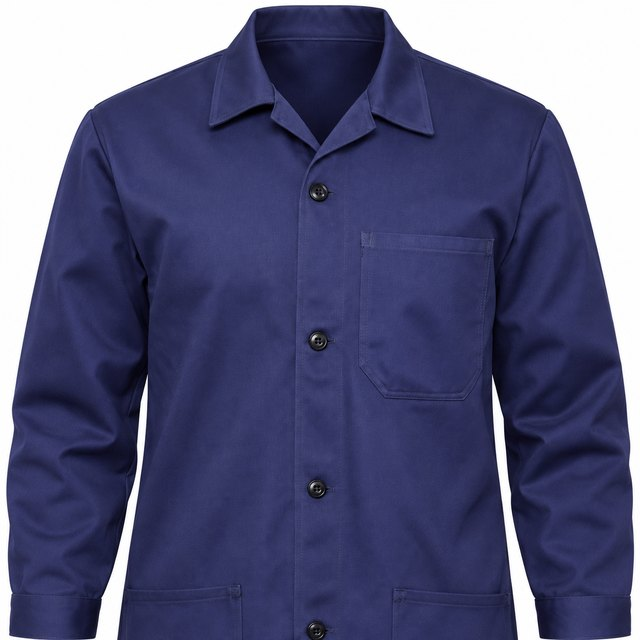
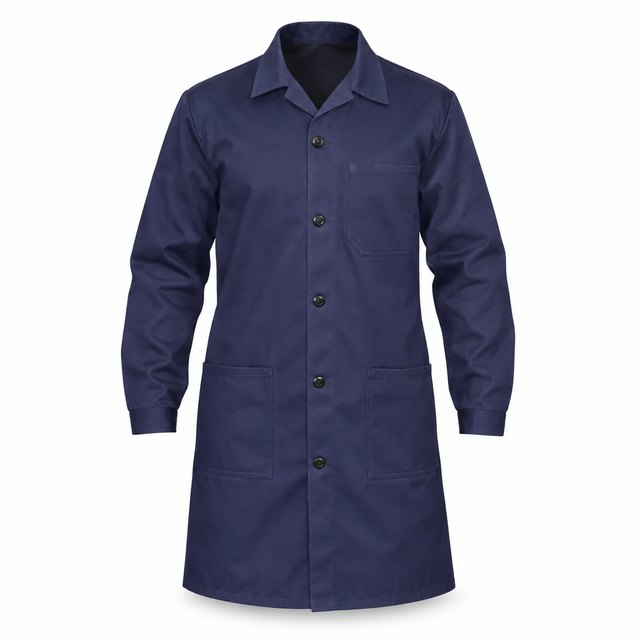
Doplněny 4 fotky z dodělávek

diff --git a/katalog.html b/katalog.html
@@ -381,7 +381,7 @@
       <span class="produkt-rada">Klasik</span>
     </div>
     <p class="produkt-mono"><span class="zastupne" title="zástupný údaj — doplní M+P Král">100 % BA</span> · <span class="zastupne" title="zástupný údaj — doplní M+P Král">280 g/m²</span></p>
-    <ul class="vzorniky"><li><button type="button" class="vzornik aktivni" style="background-image:url(img/vzorniky/klasik-souprava-zelena-predni.jpg)" title="zelená" aria-label="zelená" data-varianta="{&quot;rada&quot;: &quot;Monterková souprava Klasik&quot;, &quot;varianta&quot;: &quot;zelená&quot;, &quot;fotky&quot;: {&quot;přední&quot;: &quot;img/produkty/klasik-souprava-zelena-predni.jpg&quot;, &quot;zadní&quot;: &quot;img/produkty/klasik-souprava-zelena-zadni.jpg&quot;}, &quot;strih&quot;: &quot;220/K&quot;}"></button></li></ul>
+    <ul class="vzorniky"><li><button type="button" class="vzornik aktivni" style="background-image:url(img/vzorniky/klasik-souprava-zelena-predni.jpg)" title="zelená" aria-label="zelená" data-varianta="{&quot;rada&quot;: &quot;Monterková souprava Klasik&quot;, &quot;varianta&quot;: &quot;zelená&quot;, &quot;fotky&quot;: {&quot;detail&quot;: &quot;img/produkty/klasik-souprava-zelena-detail.jpg&quot;, &quot;přední&quot;: &quot;img/produkty/klasik-souprava-zelena-predni.jpg&quot;, &quot;zadní&quot;: &quot;img/produkty/klasik-souprava-zelena-zadni.jpg&quot;}, &quot;strih&quot;: &quot;220/K&quot;}"></button></li></ul>
     <p class="produkt-rozsah" data-rozsah>1 barva · vel. <span class="zastupne" title="zástupný údaj — doplní M+P Král">46–66</span></p>
     <button type="button" class="tl tl-obrys tl-plna" data-otevrit-rozpis>Zapsat počty</button>
     <div class="rozpis-v-karte" data-rozpis><div class="vel-mrizka"><label class="vel-bunka"><span>46</span><input type="number" min="0" placeholder="0" aria-label="Velikost 46" data-ks="46"></label><label class="vel-bunka"><span>48</span><input type="number" min="0" placeholder="0" aria-label="Velikost 48" data-ks="48"></label><label class="vel-bunka"><span>50</span><input type="number" min="0" placeholder="0" aria-label="Velikost 50" data-ks="50"></label><label class="vel-bunka"><span>52</span><input type="number" min="0" placeholder="0" aria-label="Velikost 52" data-ks="52"></label><label class="vel-bunka"><span>54</span><input type="number" min="0" placeholder="0" aria-label="Velikost 54" data-ks="54"></label><label class="vel-bunka"><span>56</span><input type="number" min="0" placeholder="0" aria-label="Velikost 56" data-ks="56"></label><label class="vel-bunka"><span>58</span><input type="number" min="0" placeholder="0" aria-label="Velikost 58" data-ks="58"></label><label class="vel-bunka"><span>60</span><input type="number" min="0" placeholder="0" aria-label="Velikost 60" data-ks="60"></label><label class="vel-bunka"><span>62</span><input type="number" min="0" placeholder="0" aria-label="Velikost 62" data-ks="62"></label><label class="vel-bunka"><span>64</span><input type="number" min="0" placeholder="0" aria-label="Velikost 64" data-ks="64"></label><label class="vel-bunka"><span>66</span><input type="number" min="0" placeholder="0" aria-label="Velikost 66" data-ks="66"></label></div>
@@ -403,7 +403,7 @@
       <span class="produkt-rada">Ostatní</span>
     </div>
     <p class="produkt-mono"><span class="zastupne" title="zástupný údaj — doplní M+P Král">65 % PES / 35 % BA</span> · <span class="zastupne" title="zástupný údaj — doplní M+P Král">260 g/m²</span></p>
-    <ul class="vzorniky"><li><button type="button" class="vzornik aktivni" style="background-image:url(img/vzorniky/plast-kralovsky-modry-predni.jpg)" title="královská modrá" aria-label="královská modrá" data-varianta="{&quot;rada&quot;: &quot;Pracovní plášť&quot;, &quot;varianta&quot;: &quot;královská modrá&quot;, &quot;fotky&quot;: {&quot;detail&quot;: &quot;img/produkty/plast-kralovsky-modry-detail.jpg&quot;, &quot;přední&quot;: &quot;img/produkty/plast-kralovsky-modry-predni.jpg&quot;, &quot;zadní&quot;: &quot;img/produkty/plast-kralovsky-modry-zadni.jpg&quot;}, &quot;strih&quot;: &quot;223/O&quot;}"></button></li><li><button type="button" class="vzornik " style="background-image:url(img/vzorniky/plast-tmave-modry-zadni.jpg)" title="tmavě modrá (navy)" aria-label="tmavě modrá (navy)" data-varianta="{&quot;rada&quot;: &quot;Pracovní plášť&quot;, &quot;varianta&quot;: &quot;tmavě modrá (navy)&quot;, &quot;fotky&quot;: {&quot;zadní&quot;: &quot;img/produkty/plast-tmave-modry-zadni.jpg&quot;}, &quot;strih&quot;: &quot;226/O&quot;}"></button></li><li><button type="button" class="vzornik " style="background-image:url(img/vzorniky/plast-zeleny-predni.jpg)" title="zelená" aria-label="zelená" data-varianta="{&quot;rada&quot;: &quot;Pracovní plášť&quot;, &quot;varianta&quot;: &quot;zelená&quot;, &quot;fotky&quot;: {&quot;detail&quot;: &quot;img/produkty/plast-zeleny-detail.jpg&quot;, &quot;přední&quot;: &quot;img/produkty/plast-zeleny-predni.jpg&quot;, &quot;zadní&quot;: &quot;img/produkty/plast-zeleny-zadni.jpg&quot;}, &quot;strih&quot;: &quot;229/O&quot;}"></button></li></ul>
+    <ul class="vzorniky"><li><button type="button" class="vzornik aktivni" style="background-image:url(img/vzorniky/plast-kralovsky-modry-predni.jpg)" title="královská modrá" aria-label="královská modrá" data-varianta="{&quot;rada&quot;: &quot;Pracovní plášť&quot;, &quot;varianta&quot;: &quot;královská modrá&quot;, &quot;fotky&quot;: {&quot;detail&quot;: &quot;img/produkty/plast-kralovsky-modry-detail.jpg&quot;, &quot;přední&quot;: &quot;img/produkty/plast-kralovsky-modry-predni.jpg&quot;, &quot;zadní&quot;: &quot;img/produkty/plast-kralovsky-modry-zadni.jpg&quot;}, &quot;strih&quot;: &quot;223/O&quot;}"></button></li><li><button type="button" class="vzornik " style="background-image:url(img/vzorniky/plast-tmave-modry-predni.jpg)" title="tmavě modrá (navy)" aria-label="tmavě modrá (navy)" data-varianta="{&quot;rada&quot;: &quot;Pracovní plášť&quot;, &quot;varianta&quot;: &quot;tmavě modrá (navy)&quot;, &quot;fotky&quot;: {&quot;přední&quot;: &quot;img/produkty/plast-tmave-modry-predni.jpg&quot;, &quot;zadní&quot;: &quot;img/produkty/plast-tmave-modry-zadni.jpg&quot;}, &quot;strih&quot;: &quot;226/O&quot;}"></button></li><li><button type="button" class="vzornik " style="background-image:url(img/vzorniky/plast-zeleny-predni.jpg)" title="zelená" aria-label="zelená" data-varianta="{&quot;rada&quot;: &quot;Pracovní plášť&quot;, &quot;varianta&quot;: &quot;zelená&quot;, &quot;fotky&quot;: {&quot;detail&quot;: &quot;img/produkty/plast-zeleny-detail.jpg&quot;, &quot;přední&quot;: &quot;img/produkty/plast-zeleny-predni.jpg&quot;, &quot;zadní&quot;: &quot;img/produkty/plast-zeleny-zadni.jpg&quot;}, &quot;strih&quot;: &quot;229/O&quot;}"></button></li></ul>
     <p class="produkt-rozsah" data-rozsah>3 barvy · vel. <span class="zastupne" title="zástupný údaj — doplní M+P Král">46–64</span></p>
     <button type="button" class="tl tl-obrys tl-plna" data-otevrit-rozpis>Zapsat počty</button>
     <div class="rozpis-v-karte" data-rozpis><div class="vel-mrizka"><label class="vel-bunka"><span>46</span><input type="number" min="0" placeholder="0" aria-label="Velikost 46" data-ks="46"></label><label class="vel-bunka"><span>48</span><input type="number" min="0" placeholder="0" aria-label="Velikost 48" data-ks="48"></label><label class="vel-bunka"><span>50</span><input type="number" min="0" placeholder="0" aria-label="Velikost 50" data-ks="50"></label><label class="vel-bunka"><span>52</span><input type="number" min="0" placeholder="0" aria-label="Velikost 52" data-ks="52"></label><label class="vel-bunka"><span>54</span><input type="number" min="0" placeholder="0" aria-label="Velikost 54" data-ks="54"></label><label class="vel-bunka"><span>56</span><input type="number" min="0" placeholder="0" aria-label="Velikost 56" data-ks="56"></label><label class="vel-bunka"><span>58</span><input type="number" min="0" placeholder="0" aria-label="Velikost 58" data-ks="58"></label><label class="vel-bunka"><span>60</span><input type="number" min="0" placeholder="0" aria-label="Velikost 60" data-ks="60"></label><label class="vel-bunka"><span>62</span><input type="number" min="0" placeholder="0" aria-label="Velikost 62" data-ks="62"></label><label class="vel-bunka"><span>64</span><input type="number" min="0" placeholder="0" aria-label="Velikost 64" data-ks="64"></label><label class="vel-bunka"><span>66</span><input type="number" min="0" placeholder="0" aria-label="Velikost 66" data-ks="66"></label></div>
@@ -454,7 +454,7 @@
   </div>
 </article><article class="produkt" data-produkt data-rada="Reflexní blůza s šedým spodkem" data-kategorie="Bundy a blůzy" data-znacka="Reflexní">
   <a class="produkt-fotka" href="produkt.html?rada=reflexni-bluza-s-sedym-spodkem">
-    <img src="img/produkty/reflex-bluza2-oranzovo-seda-zadni.jpg" alt="Reflexní blůza s šedým spodkem — oranžová se šedým spodním dílem" loading="lazy" data-predni>
+    <img src="img/produkty/reflex-bluza2-oranzovo-seda-predni.jpg" alt="Reflexní blůza s šedým spodkem — oranžová se šedým spodním dílem" loading="lazy" data-predni>
     <img src="img/produkty/reflex-bluza2-oranzovo-seda-zadni.jpg" alt="" loading="lazy" class="skryta" data-zadni><div class="prepinac-pohledu">
         <button type="button" class="aktivni" data-pohled="predni">Přední</button>
         <button type="button" data-pohled="zadni">Zadní</button>
@@ -466,7 +466,7 @@
       <span class="produkt-rada">Reflexní</span>
     </div>
     <p class="produkt-mono"><span class="zastupne" title="zástupný údaj — doplní M+P Král">65 % PES / 35 % BA</span> · <span class="zastupne" title="zástupný údaj — doplní M+P Král">260 g/m²</span></p>
-    <ul class="vzorniky"><li><button type="button" class="vzornik aktivni" style="background-image:url(img/vzorniky/reflex-bluza2-oranzovo-seda-zadni.jpg)" title="oranžová se šedým spodním dílem" aria-label="oranžová se šedým spodním dílem" data-varianta="{&quot;rada&quot;: &quot;Reflexní blůza s šedým spodkem&quot;, &quot;varianta&quot;: &quot;oranžová se šedým spodním dílem&quot;, &quot;fotky&quot;: {&quot;zadní&quot;: &quot;img/produkty/reflex-bluza2-oranzovo-seda-zadni.jpg&quot;}, &quot;strih&quot;: &quot;238/R&quot;}"></button></li></ul>
+    <ul class="vzorniky"><li><button type="button" class="vzornik aktivni" style="background-image:url(img/vzorniky/reflex-bluza2-oranzovo-seda-predni.jpg)" title="oranžová se šedým spodním dílem" aria-label="oranžová se šedým spodním dílem" data-varianta="{&quot;rada&quot;: &quot;Reflexní blůza s šedým spodkem&quot;, &quot;varianta&quot;: &quot;oranžová se šedým spodním dílem&quot;, &quot;fotky&quot;: {&quot;přední&quot;: &quot;img/produkty/reflex-bluza2-oranzovo-seda-predni.jpg&quot;, &quot;zadní&quot;: &quot;img/produkty/reflex-bluza2-oranzovo-seda-zadni.jpg&quot;}, &quot;strih&quot;: &quot;238/R&quot;}"></button></li></ul>
     <p class="produkt-rozsah" data-rozsah>1 barva · vel. <span class="zastupne" title="zástupný údaj — doplní M+P Král">46–66</span></p>
     <button type="button" class="tl tl-obrys tl-plna" data-otevrit-rozpis>Zapsat počty</button>
     <div class="rozpis-v-karte" data-rozpis><div class="vel-mrizka"><label class="vel-bunka"><span>46</span><input type="number" min="0" placeholder="0" aria-label="Velikost 46" data-ks="46"></label><label class="vel-bunka"><span>48</span><input type="number" min="0" placeholder="0" aria-label="Velikost 48" data-ks="48"></label><label class="vel-bunka"><span>50</span><input type="number" min="0" placeholder="0" aria-label="Velikost 50" data-ks="50"></label><label class="vel-bunka"><span>52</span><input type="number" min="0" placeholder="0" aria-label="Velikost 52" data-ks="52"></label><label class="vel-bunka"><span>54</span><input type="number" min="0" placeholder="0" aria-label="Velikost 54" data-ks="54"></label><label class="vel-bunka"><span>56</span><input type="number" min="0" placeholder="0" aria-label="Velikost 56" data-ks="56"></label><label class="vel-bunka"><span>58</span><input type="number" min="0" placeholder="0" aria-label="Velikost 58" data-ks="58"></label><label class="vel-bunka"><span>60</span><input type="number" min="0" placeholder="0" aria-label="Velikost 60" data-ks="60"></label><label class="vel-bunka"><span>62</span><input type="number" min="0" placeholder="0" aria-label="Velikost 62" data-ks="62"></label><label class="vel-bunka"><span>64</span><input type="number" min="0" placeholder="0" aria-label="Velikost 64" data-ks="64"></label><label class="vel-bunka"><span>66</span><input type="number" min="0" placeholder="0" aria-label="Velikost 66" data-ks="66"></label></div>
@@ -520,7 +520,7 @@
   </div>
 </article><article class="produkt" data-produkt data-rada="Reflexní kabát s černým spodkem" data-kategorie="Bundy a blůzy" data-znacka="Reflexní">
   <a class="produkt-fotka" href="produkt.html?rada=reflexni-kabat-s-cernym-spodkem">
-    <img src="img/produkty/reflex-kabat2-oranzovo-cerny-detail.jpg" alt="Reflexní kabát s černým spodkem — oranžová s černým spodním dílem" loading="lazy" data-predni>
+    <img src="img/produkty/reflex-kabat2-oranzovo-cerny-predni.jpg" alt="Reflexní kabát s černým spodkem — oranžová s černým spodním dílem" loading="lazy" data-predni>
     <img src="img/produkty/reflex-kabat2-oranzovo-cerny-zadni.jpg" alt="" loading="lazy" class="skryta" data-zadni><div class="prepinac-pohledu">
         <button type="button" class="aktivni" data-pohled="predni">Přední</button>
         <button type="button" data-pohled="zadni">Zadní</button>
@@ -532,7 +532,7 @@
       <span class="produkt-rada">Reflexní</span>
     </div>
     <p class="produkt-mono"><span class="zastupne" title="zástupný údaj — doplní M+P Král">65 % PES / 35 % BA</span> · <span class="zastupne" title="zástupný údaj — doplní M+P Král">260 g/m²</span></p>
-    <ul class="vzorniky"><li><button type="button" class="vzornik aktivni" style="background-image:url(img/vzorniky/reflex-kabat2-oranzovo-cerny-detail.jpg)" title="oranžová s černým spodním dílem" aria-label="oranžová s černým spodním dílem" data-varianta="{&quot;rada&quot;: &quot;Reflexní kabát s černým spodkem&quot;, &quot;varianta&quot;: &quot;oranžová s černým spodním dílem&quot;, &quot;fotky&quot;: {&quot;detail&quot;: &quot;img/produkty/reflex-kabat2-oranzovo-cerny-detail.jpg&quot;, &quot;zadní&quot;: &quot;img/produkty/reflex-kabat2-oranzovo-cerny-zadni.jpg&quot;}, &quot;strih&quot;: &quot;247/R&quot;}"></button></li></ul>
+    <ul class="vzorniky"><li><button type="button" class="vzornik aktivni" style="background-image:url(img/vzorniky/reflex-kabat2-oranzovo-cerny-predni.jpg)" title="oranžová s černým spodním dílem" aria-label="oranžová s černým spodním dílem" data-varianta="{&quot;rada&quot;: &quot;Reflexní kabát s černým spodkem&quot;, &quot;varianta&quot;: &quot;oranžová s černým spodním dílem&quot;, &quot;fotky&quot;: {&quot;detail&quot;: &quot;img/produkty/reflex-kabat2-oranzovo-cerny-detail.jpg&quot;, &quot;přední&quot;: &quot;img/produkty/reflex-kabat2-oranzovo-cerny-predni.jpg&quot;, &quot;zadní&quot;: &quot;img/produkty/reflex-kabat2-oranzovo-cerny-zadni.jpg&quot;}, &quot;strih&quot;: &quot;247/R&quot;}"></button></li></ul>
     <p class="produkt-rozsah" data-rozsah>1 barva · vel. <span class="zastupne" title="zástupný údaj — doplní M+P Král">46–66</span></p>
     <button type="button" class="tl tl-obrys tl-plna" data-otevrit-rozpis>Zapsat počty</button>
     <div class="rozpis-v-karte" data-rozpis><div class="vel-mrizka"><label class="vel-bunka"><span>46</span><input type="number" min="0" placeholder="0" aria-label="Velikost 46" data-ks="46"></label><label class="vel-bunka"><span>48</span><input type="number" min="0" placeholder="0" aria-label="Velikost 48" data-ks="48"></label><label class="vel-bunka"><span>50</span><input type="number" min="0" placeholder="0" aria-label="Velikost 50" data-ks="50"></label><label class="vel-bunka"><span>52</span><input type="number" min="0" placeholder="0" aria-label="Velikost 52" data-ks="52"></label><label class="vel-bunka"><span>54</span><input type="number" min="0" placeholder="0" aria-label="Velikost 54" data-ks="54"></label><label class="vel-bunka"><span>56</span><input type="number" min="0" placeholder="0" aria-label="Velikost 56" data-ks="56"></label><label class="vel-bunka"><span>58</span><input type="number" min="0" placeholder="0" aria-label="Velikost 58" data-ks="58"></label><label class="vel-bunka"><span>60</span><input type="number" min="0" placeholder="0" aria-label="Velikost 60" data-ks="60"></label><label class="vel-bunka"><span>62</span><input type="number" min="0" placeholder="0" aria-label="Velikost 62" data-ks="62"></label><label class="vel-bunka"><span>64</span><input type="number" min="0" placeholder="0" aria-label="Velikost 64" data-ks="64"></label><label class="vel-bunka"><span>66</span><input type="number" min="0" placeholder="0" aria-label="Velikost 66" data-ks="66"></label></div>

diff --git a/index.html b/index.html
@@ -108,7 +108,7 @@
     </article><article class="rada-karta">
       <h3>Reflexní</h3>
       <p>Výstražné oděvy podle EN ISO 20471. Fotografie dokončujeme.</p>
-      <ul class="vzorniky"><li><span class="vzornik vzornik-maly" style="background-image:url(img/vzorniky/reflex-bluza-oranzova-predni.jpg)" title="celá výstražná oranžová"></span></li><li><span class="vzornik vzornik-maly" style="background-image:url(img/vzorniky/reflex-bluza2-damska-cerny-spodek-predni.jpg)" title="oranžová s černým spodním dílem a manžetami"></span></li><li><span class="vzornik vzornik-maly" style="background-image:url(img/vzorniky/reflex-bluza2-oranzovo-seda-zadni.jpg)" title="oranžová se šedým spodním dílem"></span></li><li><span class="vzornik vzornik-maly" style="background-image:url(img/vzorniky/reflex-bluza3-oranzovo-seda-predni.jpg)" title="oranžová se šedým sedlem a rukávy"></span></li><li><span class="vzornik vzornik-maly" style="background-image:url(img/vzorniky/reflex-kabat-oranzovy-predni.jpg)" title="výstražná oranžová se stříbrnými pruhy"></span></li><li><span class="vzornik vzornik-maly" style="background-image:url(img/vzorniky/reflex-kabat2-oranzovo-cerny-detail.jpg)" title="oranžová s černým spodním dílem"></span></li><li><span class="vzornik vzornik-maly" style="background-image:url(img/vzorniky/reflex-kalhoty4-oranzove-predni.jpg)" title="celá výstražná oranžová"></span></li><li><span class="vzornik vzornik-maly" style="background-image:url(img/vzorniky/reflex-a201-predni.jpg)" title="podle podkladu"></span></li></ul>
+      <ul class="vzorniky"><li><span class="vzornik vzornik-maly" style="background-image:url(img/vzorniky/reflex-bluza-oranzova-predni.jpg)" title="celá výstražná oranžová"></span></li><li><span class="vzornik vzornik-maly" style="background-image:url(img/vzorniky/reflex-bluza2-damska-cerny-spodek-predni.jpg)" title="oranžová s černým spodním dílem a manžetami"></span></li><li><span class="vzornik vzornik-maly" style="background-image:url(img/vzorniky/reflex-bluza2-oranzovo-seda-predni.jpg)" title="oranžová se šedým spodním dílem"></span></li><li><span class="vzornik vzornik-maly" style="background-image:url(img/vzorniky/reflex-bluza3-oranzovo-seda-predni.jpg)" title="oranžová se šedým sedlem a rukávy"></span></li><li><span class="vzornik vzornik-maly" style="background-image:url(img/vzorniky/reflex-kabat-oranzovy-predni.jpg)" title="výstražná oranžová se stříbrnými pruhy"></span></li><li><span class="vzornik vzornik-maly" style="background-image:url(img/vzorniky/reflex-kabat2-oranzovo-cerny-predni.jpg)" title="oranžová s černým spodním dílem"></span></li><li><span class="vzornik vzornik-maly" style="background-image:url(img/vzorniky/reflex-kalhoty4-oranzove-predni.jpg)" title="celá výstražná oranžová"></span></li><li><span class="vzornik vzornik-maly" style="background-image:url(img/vzorniky/reflex-a201-predni.jpg)" title="podle podkladu"></span></li></ul>
       <p class="mono-popisek" style="margin-top:12px">16 střihů</p>
     </article></div>
   </section>
@@ -336,7 +336,7 @@
       <div style="display:flex;gap:16px"><div class="karta" style="flex:1">
         <div style="aspect-ratio:1"><img src="img/produkty/plast-kralovsky-modry-predni.jpg" alt="" loading="lazy" style="width:100%;height:100%;object-fit:contain"></div>
       </div><div class="karta" style="flex:1">
-        <div style="aspect-ratio:1"><img src="img/produkty/plast-tmave-modry-zadni.jpg" alt="" loading="lazy" style="width:100%;height:100%;object-fit:contain"></div>
+        <div style="aspect-ratio:1"><img src="img/produkty/plast-tmave-modry-predni.jpg" alt="" loading="lazy" style="width:100%;height:100%;object-fit:contain"></div>
       </div></div>
       <div>
         <p>Oddělená větev sortimentu s jinými požadavky než stavba: hladké materiály bez
